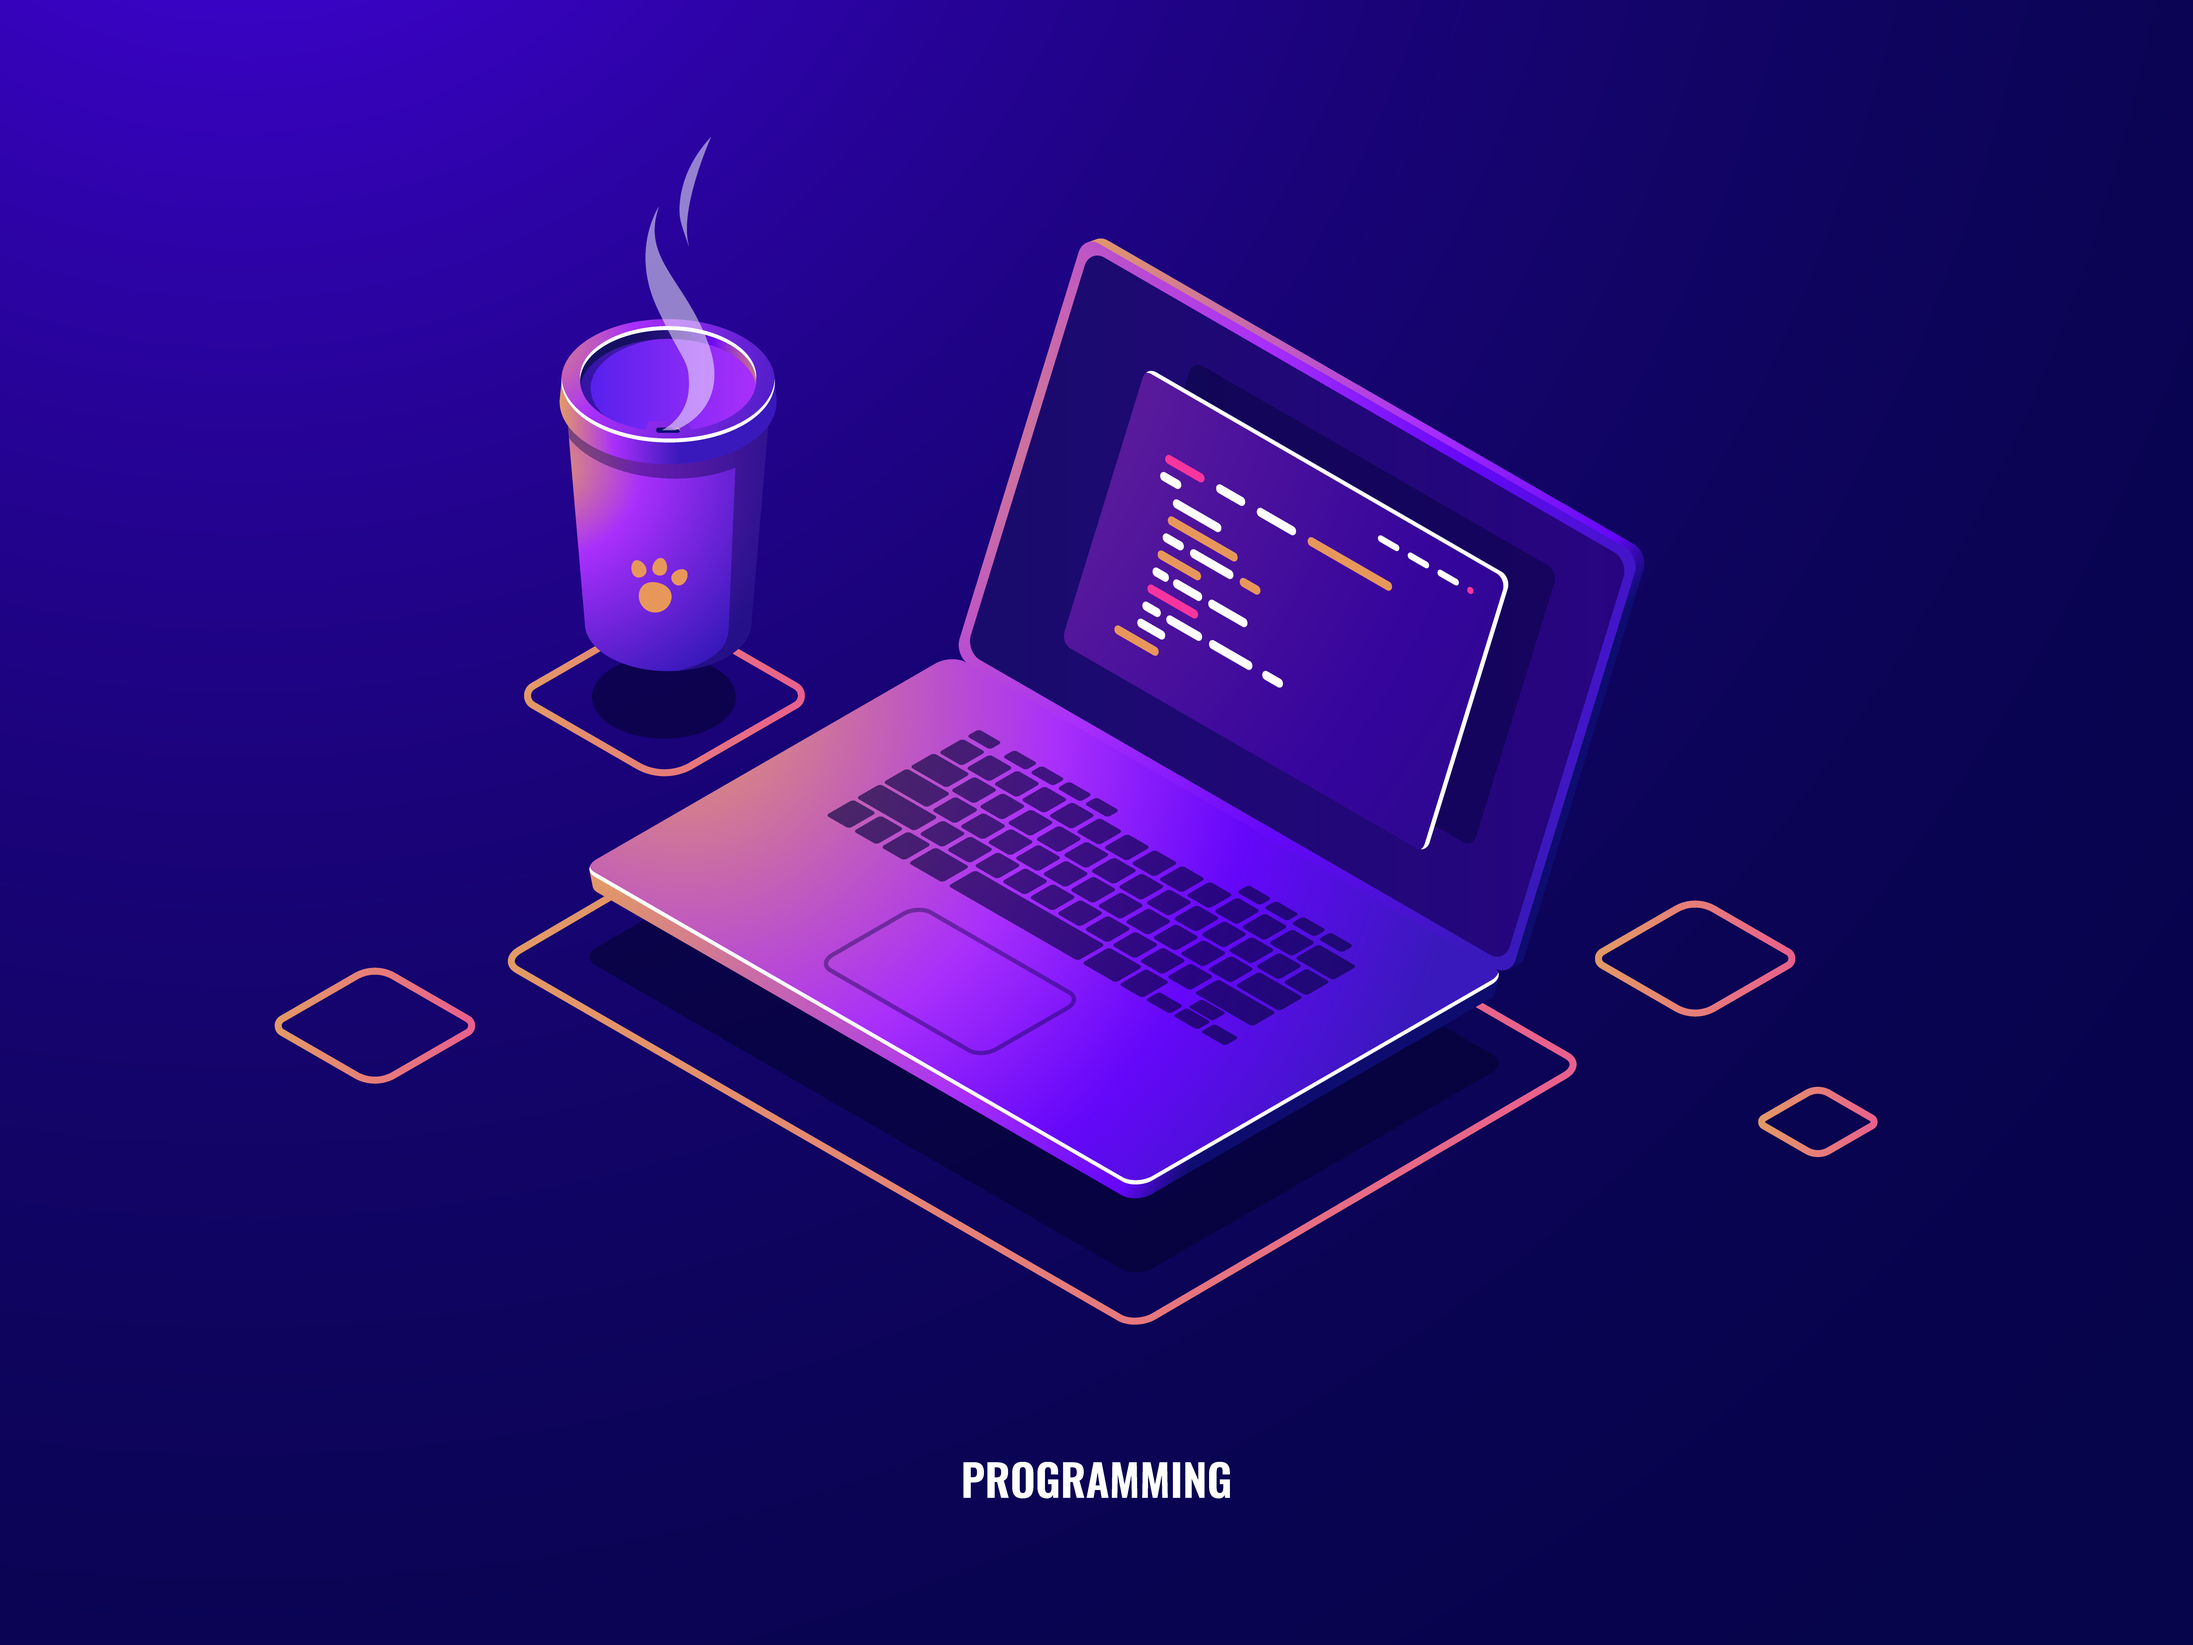
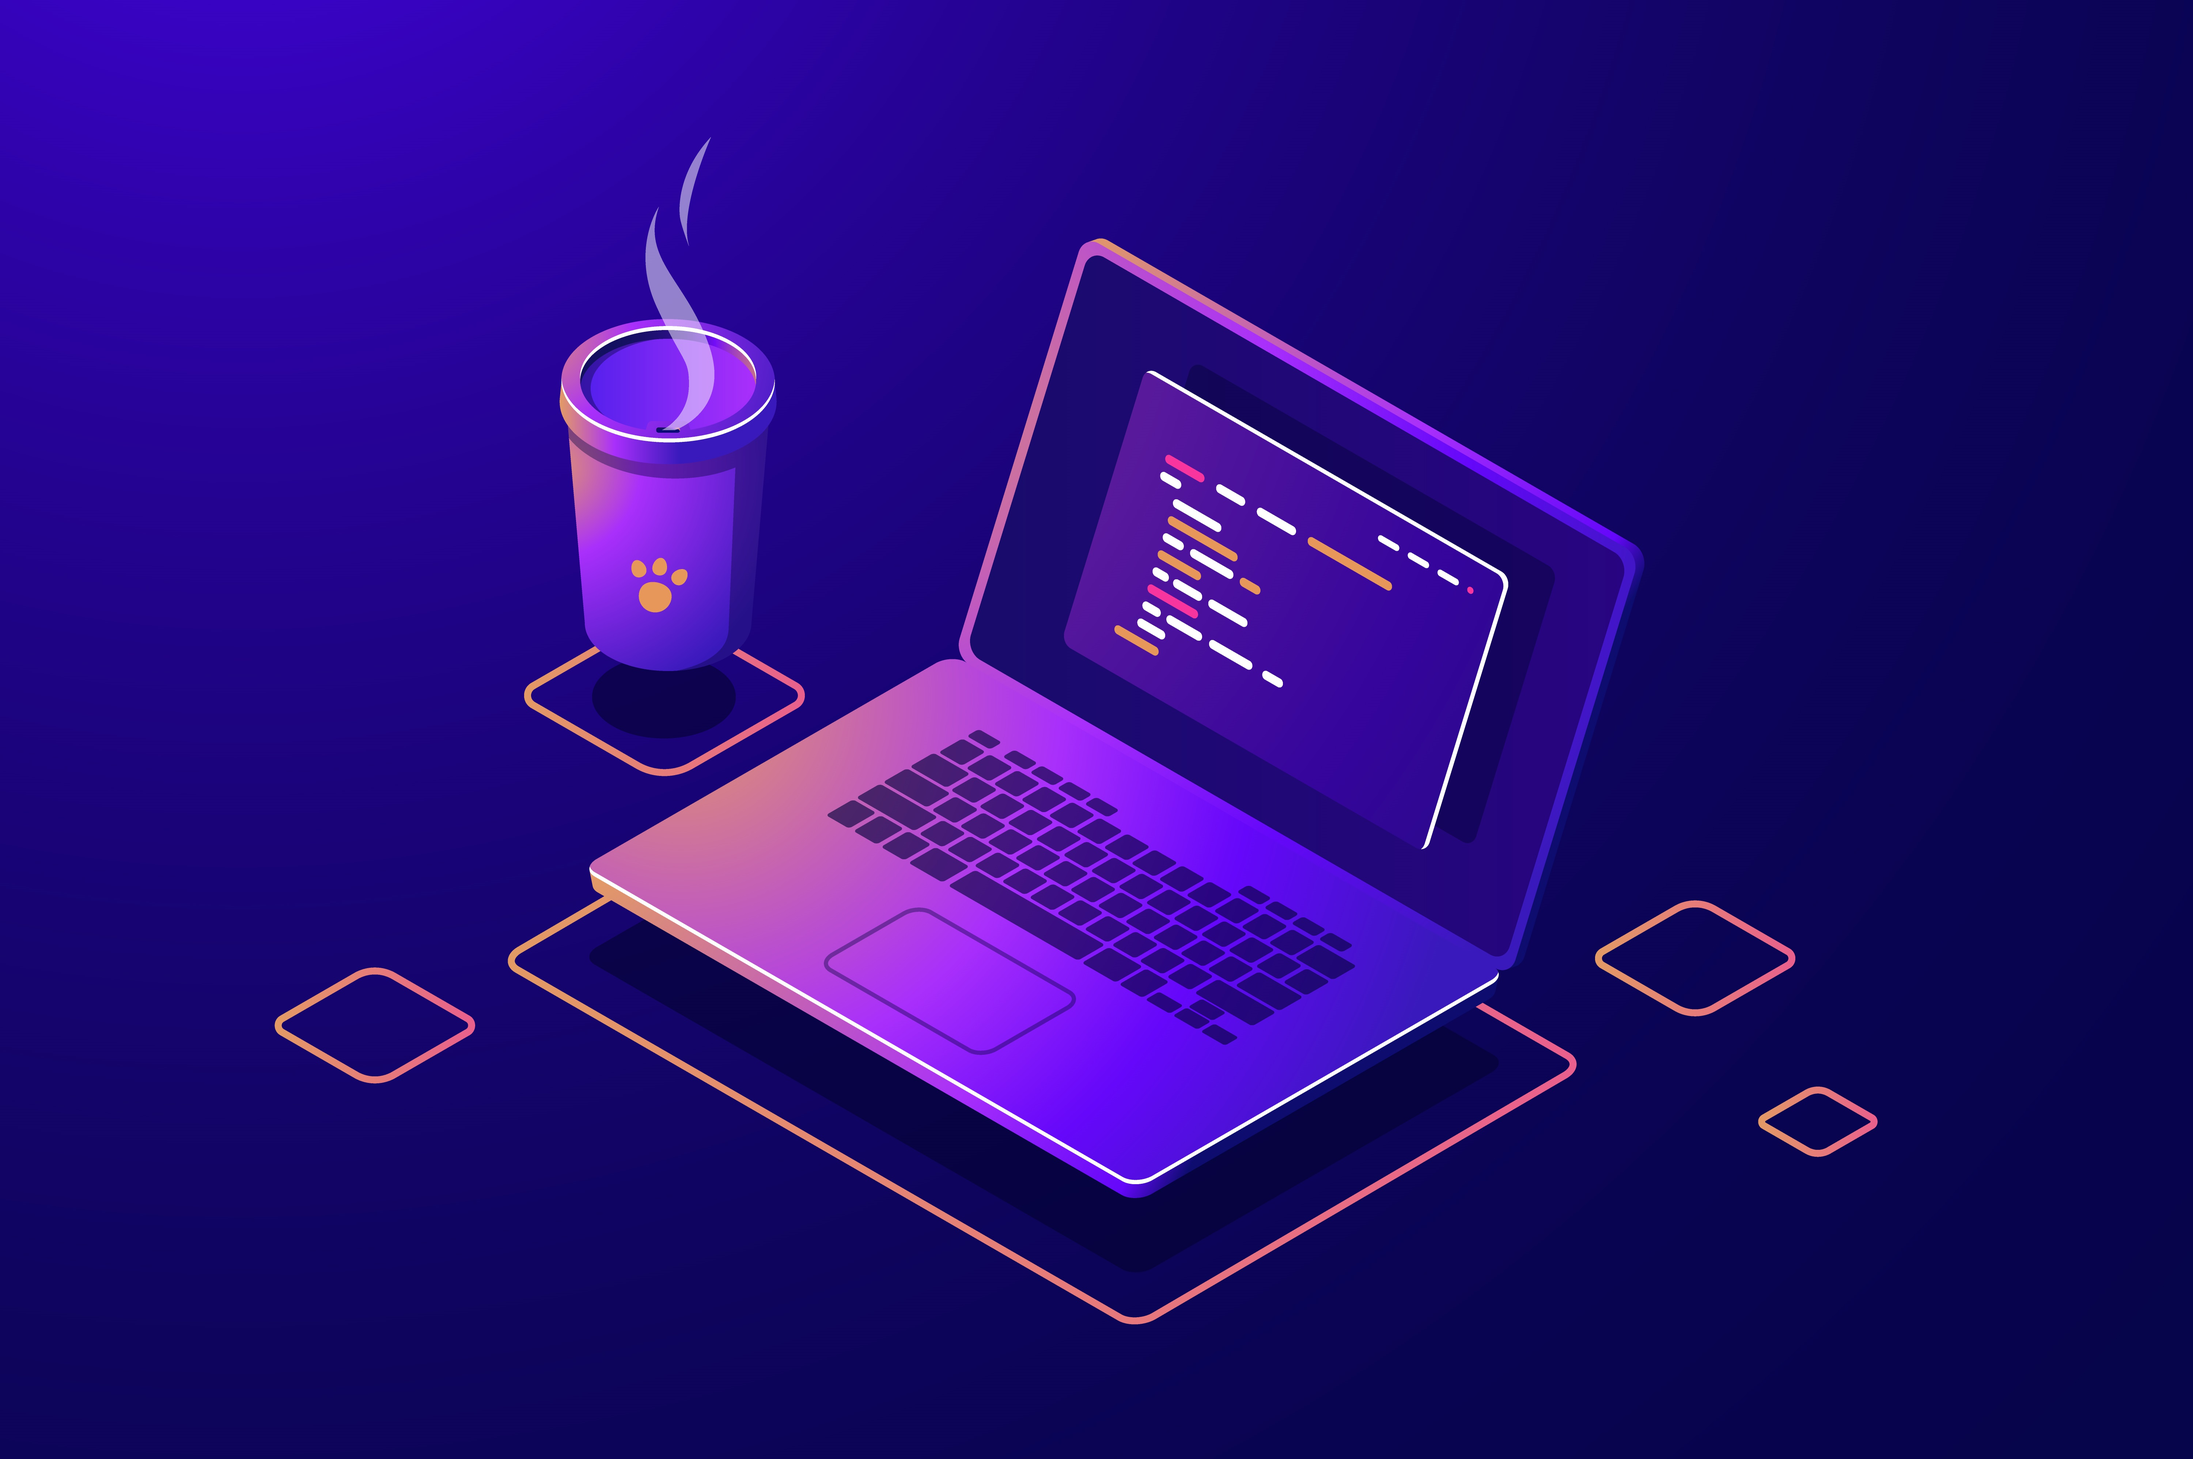
laptop image refine

diff --git a/src/App.js b/src/App.js
@@ -5,7 +5,7 @@ import Paper from '@mui/material/Paper';
 import Card from '@mui/material/Card';
 import CardContent from '@mui/material/CardContent';
 import CardMedia from '@mui/material/CardMedia';
-import { CardActionArea } from '@mui/material';
+import { CardActionArea, Container } from '@mui/material';
 import { createTheme, ThemeProvider } from '@mui/material/styles';
 import Footer from './Footer'
 import { purple } from '@mui/material/colors';
@@ -36,6 +36,15 @@ const App = () => {
       fontFamily: 'Roboto'
     }
   })
+
+  const commonStyles = {
+    bgcolor: 'background.paper',
+    borderColor: 'text.primary',
+    m: 1,
+    border: 1,
+    width: '5rem',
+    height: '5rem',
+  };
 
   return <>
     <ThemeProvider theme={theme}>
@@ -107,6 +116,9 @@ const App = () => {
           </Typography>
           <Button variant="outlined" theme={robotoTheme}>Learn More</Button>
           </Box>
+        </Box>
+        <Box sx={{display: 'flex', justifyContent: 'center', margin: 5}}>
+          <img src="https://github.com/pham-andrew/andrewpham.games/blob/main/public/images/laptop.jpg?raw=true" alt="laptop" style={{width: "500px", borderRadius: '3%'}} />
         </Box>
       </Paper>
     </ThemeProvider>
